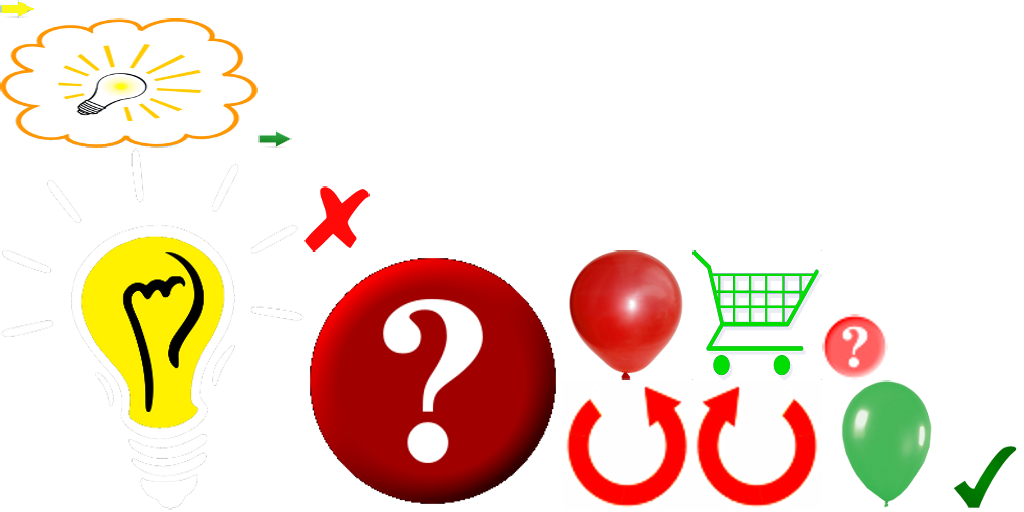
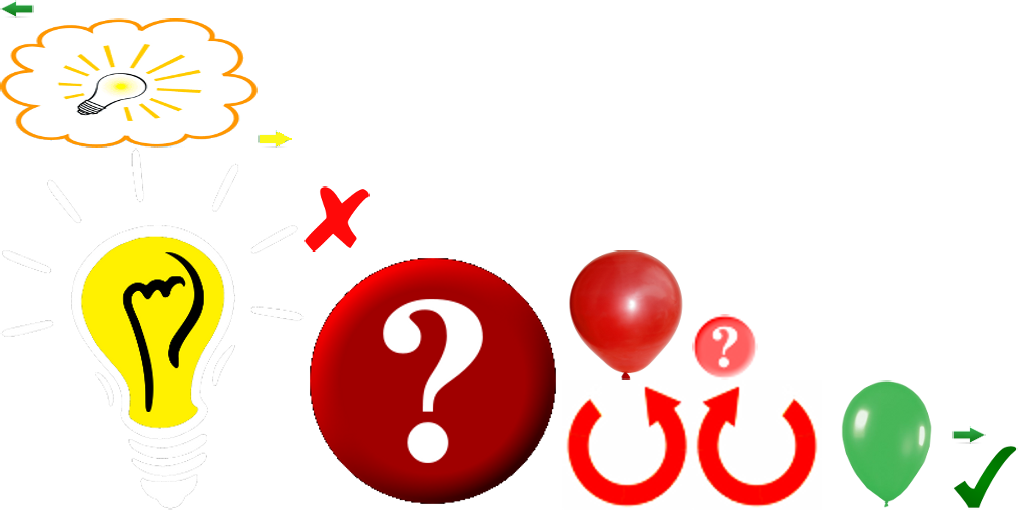
abstractor UI improved.

diff --git a/ScienceEngine/src/com/mazalearn/scienceengine/tutor/Abstractor.java b/ScienceEngine/src/com/mazalearn/scienceengine/tutor/Abstractor.java
@@ -1,21 +1,20 @@
 package com.mazalearn.scienceengine.tutor;
 
 import java.util.ArrayList;
-import java.util.HashSet;
+import java.util.HashMap;
 import java.util.List;
-import java.util.Set;
+import java.util.Map;
 
 import com.badlogic.gdx.graphics.g2d.TextureRegion;
-import com.badlogic.gdx.graphics.g2d.TextureAtlas.AtlasRegion;
 import com.badlogic.gdx.math.Vector2;
 import com.badlogic.gdx.scenes.scene2d.Actor;
 import com.badlogic.gdx.scenes.scene2d.InputEvent;
-import com.badlogic.gdx.scenes.scene2d.ui.CheckBox;
 import com.badlogic.gdx.scenes.scene2d.ui.Image;
 import com.badlogic.gdx.scenes.scene2d.ui.Skin;
 import com.badlogic.gdx.scenes.scene2d.ui.Table;
 import com.badlogic.gdx.scenes.scene2d.ui.TextButton;
 import com.badlogic.gdx.scenes.scene2d.utils.ClickListener;
+import com.badlogic.gdx.scenes.scene2d.utils.TextureRegionDrawable;
 import com.badlogic.gdx.utils.Array;
 import com.mazalearn.scienceengine.ScienceEngine;
 import com.mazalearn.scienceengine.ScreenComponent;
@@ -30,9 +29,10 @@ public class Abstractor extends AbstractTutor {
   private Table configTable;
   private ModelControls modelControls;
   private Skin skin;
-  private Set<String> correctParameters;
+  private Map<String, Integer> correctParameters;
   private Image[] life = new Image[3];
   private int numLivesLeft = 3;
+  private TextureRegionDrawable increase, decrease, noeffect;
   
   public Abstractor(final IScience2DController science2DController, TutorType tutorType, ITutor parent, String goal, 
       String name, Array<?> components, Array<?> configs, Skin skin, 
@@ -44,6 +44,9 @@ public class Abstractor extends AbstractTutor {
     /* Abstractor allows user to interact with bodies on screen as well as its
        own GUI. But does not directly interact - hence size 0.  */
     this.setSize(0, 0);
+    decrease = new TextureRegionDrawable(ScienceEngine.getTextureRegion("fieldarrow-left"));
+    noeffect = new TextureRegionDrawable(ScienceEngine.getTextureRegion("cross"));
+    increase = new TextureRegionDrawable(ScienceEngine.getTextureRegion("fieldarrow"));
   }
   
   @Override
@@ -63,7 +66,7 @@ public class Abstractor extends AbstractTutor {
   private void createConfigTable(IScience2DModel science2DModel, Skin skin) {
     configTable = new Table(skin);
     configTable.setName("Configs");
-    ScreenComponent.scalePosition(configTable, 150, 380);
+    ScreenComponent.scalePosition(configTable, 200, 340);
     this.addActor(configTable);
 
     TextureRegion ideaTexture = ScienceEngine.getTextureRegion("idea");
@@ -76,44 +79,57 @@ public class Abstractor extends AbstractTutor {
     // Shuffle parameters
     Utils.shuffle(configList);
     // Add parameters to table
+    final ChangeOptions changeOptions = new ChangeOptions(guru, decrease, noeffect, increase);
+    this.addActor(changeOptions);
+    TextureRegion question = ScienceEngine.getTextureRegion("questionmark");
     for (final IModelConfig<?> config: configList) {
-      final CheckBox configCheckBox = new CheckBox(config.getName(), skin);
-      configCheckBox.setName(config.getName());
-      configCheckBox.setChecked(false);
-      configCheckBox.addListener(new ClickListener() {
-        @Override
-        public void clicked(InputEvent event, float x, float y) {
-          if (configCheckBox.isChecked()) {
-            ScienceEngine.pin(config.getBody(), true);
-          }
-          modelControls.refresh();
-        }
+      configTable.add(config.getName()).left();
+      final Image image = new Image(question);
+      image.setName(config.getName());
+      configTable.add(image).width(30).height(30);
+      image.addListener(new ClickListener() {
+        public void clicked (InputEvent event, float x, float y) {
+          image.setVisible(false);
+          changeOptions.setPosition(event.getStageX(), event.getStageY());
+          changeOptions.setImage(image);
+          changeOptions.setVisible(true);
+        }        
       });
-      configTable.add(configCheckBox).left().colspan(4);
       configTable.row();      
     }
     // Add lives to table
+    Table lifeTable = new Table(skin);
     for (int i = 0; i < 3; i++) {
       life[i] = new Image(ideaTexture);
       life[i].setSize(ScreenComponent.Idea.getWidth() / 2,
           ScreenComponent.Idea.getHeight() / 2);
-      configTable.add(life[i]).width(ScreenComponent.Idea.getWidth() / 2);
+      lifeTable.add(life[i]).width(ScreenComponent.Idea.getWidth() / 2);
     }
-    configTable.add(createDoneButton(skin)).fill();
+    configTable.add(lifeTable).fill().spaceTop(20);
+    configTable.add(createDoneButton(skin)).fill().spaceTop(20);
     configTable.row();
   }
   
-  private Actor createChangeOptions() {
-    AtlasRegion arrow = ScienceEngine.getTextureRegion("fieldarrow");
-    final Image decrease = new Image(new TextureRegion(arrow, arrow.getRegionX() + arrow.getRegionWidth(), 
-        arrow.getRegionY(), -arrow.getRegionWidth(), arrow.getRegionHeight()));
-    final Image dontCare = new Image(ScienceEngine.getTextureRegion("cross"));
-    final Image increase = new Image(arrow);
-    Table changeOptions = new Table(guru.getSkin());
-    changeOptions.add("Decreases"); changeOptions.add(decrease).width(50).height(50).right(); changeOptions.row();
-    changeOptions.add("Is Unaffected"); changeOptions.add(dontCare).width(50).height(50).center(); changeOptions.row();
-    changeOptions.add("Increases"); changeOptions.add(increase).width(50).height(50).left(); changeOptions.row();
-    return changeOptions;
+  private static class ChangeOptions extends Table {
+    Image img;
+    public ChangeOptions(Guru guru, TextureRegionDrawable... options) {
+      super(guru.getSkin());
+      for (TextureRegionDrawable option: options) {
+        final Image opt = new Image(); opt.setDrawable(option);
+        opt.addListener(new ClickListener() {
+          public void clicked (InputEvent event, float x, float y) {
+            img.setDrawable(opt.getDrawable());
+            img.setVisible(true);
+            ChangeOptions.this.setVisible(false);
+          }              
+        });
+        this.add(opt).width(30).height(30).left();
+      }
+    }
+    
+    public void setImage(Image image) {
+      this.img = image;
+    }
   }
 
   private TextButton createDoneButton(Skin skin) {
@@ -122,12 +138,14 @@ public class Abstractor extends AbstractTutor {
     doneButton.addListener(new ClickListener() {
       @Override
       public void clicked (InputEvent event, float x, float y) {
-        Set<String> chosenParameters = new HashSet<String>();
+        Map<String, Integer> chosenParameters = new HashMap<String, Integer>();
         for (Actor actor: configTable.getChildren()) {
-          if (!(actor instanceof CheckBox)) continue;
-          CheckBox checkBox = (CheckBox) actor;
-          if (checkBox.isChecked()) {
-            chosenParameters.add(checkBox.getName());
+          if (!(actor instanceof Image)) continue;
+          Image image = (Image) actor;
+          if (image.getDrawable() == increase) {
+            chosenParameters.put(image.getName(), 1);
+          } else if (image.getDrawable() == decrease) {
+            chosenParameters.put(image.getName(), -1);
           }
         }
         boolean success = correctParameters.equals(chosenParameters);
@@ -157,11 +175,8 @@ public class Abstractor extends AbstractTutor {
     modelControls.refresh();
   }
 
-  public void initialize(String[] parameters) {
-    correctParameters = new HashSet<String>();
-    for (String parameter: parameters) {
-      correctParameters.add(parameter);
-    }
+  public void initialize(Map<String, Integer> parameters) {
+    correctParameters = parameters;
   }
 
 }

diff --git a/ScienceEngine/src/com/mazalearn/scienceengine/app/services/loaders/TutorLoader.java b/ScienceEngine/src/com/mazalearn/scienceengine/app/services/loaders/TutorLoader.java
@@ -1,7 +1,9 @@
 package com.mazalearn.scienceengine.app.services.loaders;
 
 import java.util.ArrayList;
+import java.util.HashMap;
 import java.util.List;
+import java.util.Map;
 
 import com.badlogic.gdx.Gdx;
 import com.badlogic.gdx.utils.Array;
@@ -113,9 +115,18 @@ class TutorLoader {
   private AbstractTutor makeAbstractor(OrderedMap<String, ?> tutorObj,
       Abstractor abstractor) {
     Array<?> parametersObj = (Array<?>) tutorObj.get("parameters");
-    String[] parameters = parametersObj == null ? new String[]{} : new String[parametersObj.toArray().length];
-    for (int i = 0; i < parameters.length; i++) {
-      parameters[i] = (String) parametersObj.get(i);
+    Map<String, Integer> parameters = new HashMap<String, Integer>();
+    if (parametersObj != null) {
+      for (int i = 0; i < parametersObj.toArray().length; i++) {
+        String parameter = (String) parametersObj.get(i);
+        if (parameter.charAt(0) == '-') {
+          parameters.put(parameter.substring(1), -1);
+        } else if (parameter.charAt(0) == '+') {
+          parameters.put(parameter.substring(1), 1);
+        } else {
+          parameters.put(parameter, 1); // default is increase
+        }
+      }
     }
     abstractor.initialize(parameters);
     return abstractor;

diff --git a/ScienceEngine/src/com/mazalearn/scienceengine/tutor/ParameterProber.java b/ScienceEngine/src/com/mazalearn/scienceengine/tutor/ParameterProber.java
@@ -172,11 +172,9 @@ public class ParameterProber extends AbstractScience2DProber {
              SizeAction.sizeTo(50, 30, 2)
               )));
 
-      AtlasRegion arrow = ScienceEngine.getTextureRegion("fieldarrow");
-      final Image decrease = new Image(new TextureRegion(arrow, arrow.getRegionX() + arrow.getRegionWidth(), 
-          arrow.getRegionY(), -arrow.getRegionWidth(), arrow.getRegionHeight()));
+      final Image decrease = new Image(ScienceEngine.getTextureRegion("fieldarrow-left"));
       final Image dontCare = new Image(ScienceEngine.getTextureRegion("cross"));
-      final Image increase = new Image(arrow);
+      final Image increase = new Image(ScienceEngine.getTextureRegion("fieldarrow"));
       changeOptions = new Table(guru.getSkin());
       changeOptions.add("Decreases"); changeOptions.add(decrease).width(50).height(50).right(); changeOptions.row();
       changeOptions.add("Is Unaffected"); changeOptions.add(dontCare).width(50).height(50).center(); changeOptions.row();
